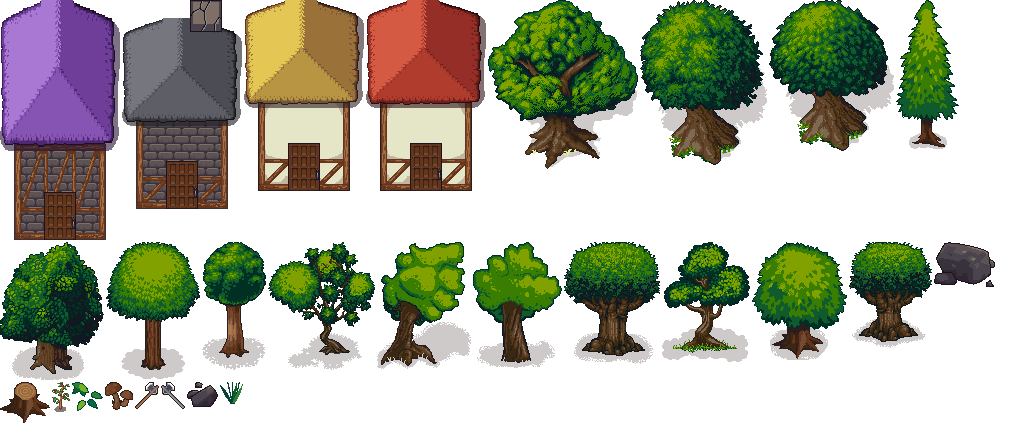
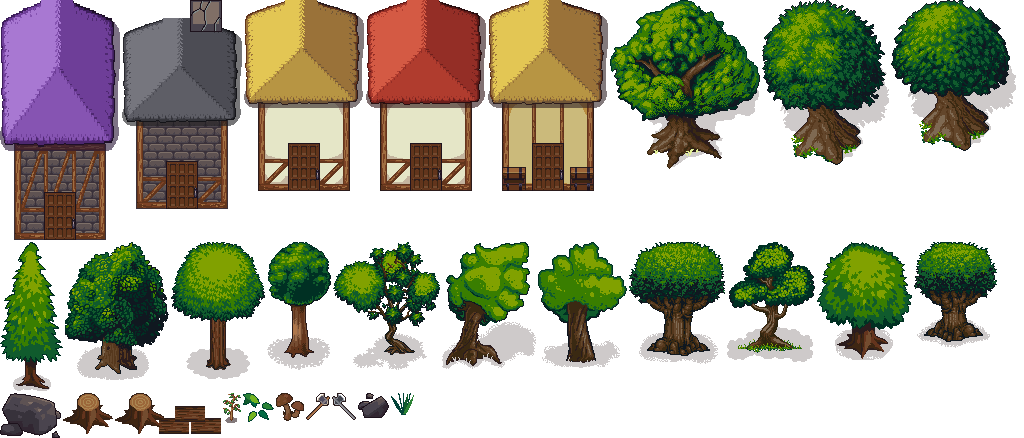
[PROJECT-F6]: Add the camp and storehouse art

diff --git a/asset-packs/lpc/build_assets.py b/asset-packs/lpc/build_assets.py
@@ -9,8 +9,8 @@ Outputs (into lib/core/assets/images/lpc/, the one copy the Flutter app reads on
   hero-{chop,hammer}.png           128x128 work animations: body slash frames between the tool's
                                    back and front layers (same layout as the LPC generator)
   forest.png + forest.json         JSON-hash atlas (TexturePacker format): trees and sapling (pivot = trunk base), decor, stump,
-                                   large rock, axe and pickaxe pickups, the house, the forge, the armory and the mage tower
-                                   (pivot = bottom centre)
+                                   large rock, axe and pickaxe pickups, the house, the forge, the armory, the mage tower,
+                                   the storehouse and the camp (pivot = bottom centre)
   ground.png                       grass tile(s) for the tilemap (32x32 each, in a row)
   arena.png + arena.json           JSON-hash atlas for the arena: the hero (with the axe and each sword, in
                                    each armour: work clothes, leather, chain mail, plate), bandit,
@@ -193,6 +193,14 @@ CHIMNEY_INSET = 20  # distance from the chimney's right edge to the roof's right
 MAGE_TOWER_ROOF = [(30, 16, 40), (38, 20, 52), (62, 30, 92), (78, 40, 112), (96, 52, 136), (110, 62, 152), (134, 84, 178), (168, 120, 210), (190, 150, 226)]
 MAGE_TOWER_WALL_BOX = (96, 256, 192, 352)  # cottage.png, stone wall with long diagonal braces
 MAGE_TOWER_ROOF_STRETCH = 1.4  # the violet roof is drawn 40 % taller, like a spire
+STOREHOUSE_WALL_BOX = (288, 0, 384, 96)  # cottage.png, ochre wall with vertical posts
+CRATE_BOX = (672, 576, 704, 608)  # terrain_atlas.png, a closed wooden chest with iron bands
+CRATE_SCALE = 0.75  # the crates beside the storehouse door are drawn at three quarters of their size
+CRATE_INSET = 14  # distance from each crate to the side of the storehouse image
+CAMP_LOG_BOX = (776, 576, 792, 606)  # terrain_atlas.png, a straight piece of trunk; lying down it is a log
+CAMP_LOG_GAP = 2  # pixels between the two bottom logs
+CAMP_LOG_OVERLAP = 4  # the top log sinks into the two below
+CAMP_STUMP_OVERLAP = 6  # the stump stands in front of the log pile
 
 
 def trim(image: Image.Image, name: str) -> Image.Image:
@@ -285,6 +293,29 @@ def build_mage_tower() -> Image.Image:
     return build_cottage(MAGE_TOWER_WALL_BOX, MAGE_TOWER_ROOF, roof_stretch=MAGE_TOWER_ROOF_STRETCH)
 
 
+def build_storehouse(terrain: Image.Image) -> Image.Image:
+    image = build_cottage(STOREHOUSE_WALL_BOX)
+    crate = trim(terrain.crop(CRATE_BOX), "crate")
+    crate = crate.resize((round(crate.width * CRATE_SCALE), round(crate.height * CRATE_SCALE)), Image.NEAREST)
+    image.alpha_composite(crate, (CRATE_INSET, image.height - crate.height))
+    image.alpha_composite(crate, (image.width - CRATE_INSET - crate.width, image.height - crate.height))
+    return image
+
+
+def build_camp(terrain: Image.Image) -> Image.Image:
+    """The first drop-off point: the tree stump in front of a pile of three logs."""
+    log = trim(terrain.crop(CAMP_LOG_BOX), "camp log").rotate(90, expand=True)
+    pile = Image.new("RGBA", (log.width * 2 + CAMP_LOG_GAP, log.height * 2 - CAMP_LOG_OVERLAP))
+    pile.alpha_composite(log, (0, log.height - CAMP_LOG_OVERLAP))
+    pile.alpha_composite(log, (log.width + CAMP_LOG_GAP, log.height - CAMP_LOG_OVERLAP))
+    pile.alpha_composite(log, ((pile.width - log.width) // 2, 0))
+    stump = terrain.crop(STUMP_BOX)
+    image = Image.new("RGBA", (stump.width + pile.width - CAMP_STUMP_OVERLAP, max(stump.height, pile.height)))
+    image.alpha_composite(pile, (stump.width - CAMP_STUMP_OVERLAP, image.height - pile.height))
+    image.alpha_composite(stump, (0, image.height - stump.height))
+    return image
+
+
 def build_forest() -> None:
     trees_sheet = Image.open(SOURCES / "terrain" / "trees-green.png").convert("RGBA")
     terrain = Image.open(SOURCES / "terrain" / "terrain_atlas.png").convert("RGBA")
@@ -324,6 +355,10 @@ def build_forest() -> None:
     pivots["armory"] = {"x": 0.5, "y": 1}
     frames["mage-tower"] = build_mage_tower()
     pivots["mage-tower"] = {"x": 0.5, "y": 1}
+    frames["storehouse"] = build_storehouse(terrain)
+    pivots["storehouse"] = {"x": 0.5, "y": 1}
+    frames["camp"] = build_camp(terrain)
+    pivots["camp"] = {"x": 0.5, "y": 1}
 
     write_atlas("forest", frames, pivots)
 

diff --git a/lib/core/assets/images/lpc/CREDITS.md b/lib/core/assets/images/lpc/CREDITS.md
@@ -45,7 +45,7 @@ Daniel Eddeland, Johann Charlot, Skyler Robert Colladay.
 CC-BY-SA 3.0 / GPL 3.0 — <https://opengameart.org/content/lpc-tile-atlas>. Full list in
 `asset-packs/lpc/sources/terrain/Attribution.txt`.
 
-## House, forge, armory and mage tower (`house`, `forge`, `armory`, `mage-tower` frames in `forest.png`)
+## House, forge, armory, mage tower and storehouse (`house`, `forge`, `armory`, `mage-tower`, `storehouse` frames in `forest.png`)
 
 Assembled from "[LPC] Thatched-roof Cottage" (timber-frame and stone walls, thatched roof) and
 "[LPC] Windows & Doors" (door), both by bluecarrot16. CC-BY-SA 3.0 / GPL 3.0 —
@@ -54,8 +54,11 @@ Assembled from "[LPC] Thatched-roof Cottage" (timber-frame and stone walls, that
 The forge and armory roofs are recoloured (dark grey, red); the forge chimney is a stone block
 from the LPC Tile Atlas above.
 The mage tower roof is recoloured violet and stretched 40 % taller.
+The storehouse (`storehouse` frame) is the same cottage with the ochre wall and the thatched roof, with two
+closed chests of the LPC Tile Atlas above beside the door.
 
 The stump (`stump` frame) comes from the LPC Tile Atlas above.
+The camp (`camp` frame) is that stump in front of three logs cut from a tree trunk of the LPC Tile Atlas above.
 The large rock (`rock-large` frame) is a grey boulder of the LPC Tile Atlas above.
 The sapling (`sapling` frame) is a young plant from the farming crops of the LPC Tile Atlas above (Daniel Eddeland).
 
